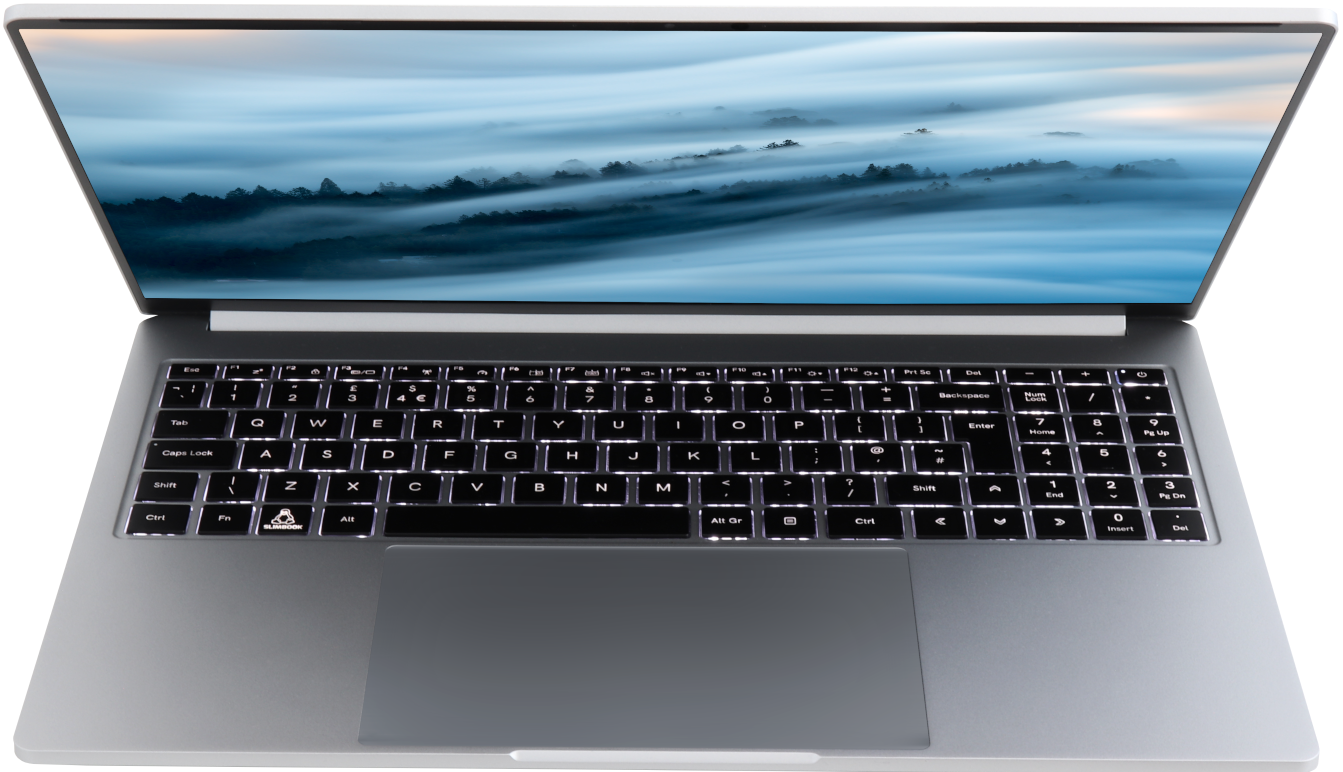
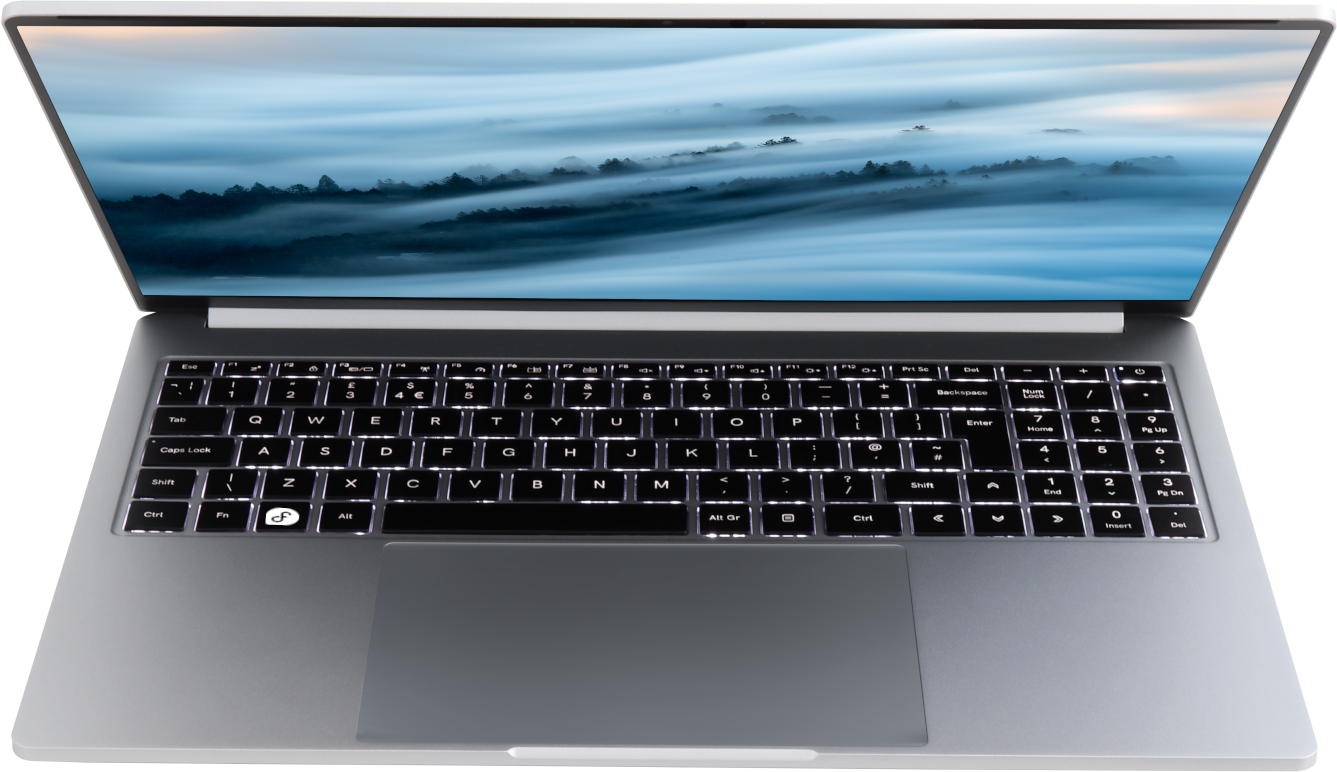
Update

diff --git a/themes/fedora-slimbook/layouts/index.html b/themes/fedora-slimbook/layouts/index.html
@@ -261,7 +261,44 @@
             </div>
         </div>
     </section>
+    <section class="p-0"
+        style="background: linear-gradient(194deg, rgba(80,158,214,0) 46%, rgba(80,158,214,1) 46%, rgba(91,47,164,0.9177871832326681) 100%, rgba(106,79,186,0.9570028695071778) 100%);">
+        <section class="mx-auto ">
+            <div class="row p-4 align-items-center">
+                <div class="col-xl-4 p-5 offset-xl-1  align-items-center text-center">
+                    <img src="/img/Fedora-EX16-banner6.png" alt="fff">
+                </div>
+                <ul class="col-xl-3 col-12 align-items-center">
+                    <img src="/img/gallery/Fedora-EX16-banner6-IMG1.png" alt="">
+                    <img src="/img/gallery/Fedora-EX16-banner6-IMG2.png" alt="">
+                </ul>
+                <ul class="col-xl-3 col-12 align-items-center">
+                    <img src="/img/gallery/Fedora-EX16-banner6-IMG3.png" alt="">
+                    <img src="/img/gallery/Fedora-EX16-banner6-IMG4.png" alt="">
+                </ul>
 
+            </div>
+        </section>
+        <section class="mx-auto p-0">
+            <div class="row p-4 w-50 mx-auto align-items-center">
+                <div class="col-xl-4 offset-xl-1 p-5 align-items-center text-center">
+                    <img src="/img/Logo_X.png" alt="fff">
+                </div>
+                <ul class="col-xl-2 col-12 align-items-center">
+                    <img src="/img/heart.PNG" alt="">
+                </ul>
+                <ul class="col-xl-4 col-12 align-items-center">
+                    <img src="/img/Fedora-logoFedora-banner1.png" alt="">
+                </ul>
+                <div class="text-center pb-5" style="color:white">
+                    <p>
+                        With every purchase of this laptop model, Slimbook collaborates with the GNOME foundation.
+                    </p>
+                </div>
+            </div>
+
+        </section>
+    </section>
 </main>
 
 {{ end }}

diff --git a/public/index.html b/public/index.html
@@ -298,7 +298,44 @@
             </div>
         </div>
     </section>
+    <section class="p-0"
+        style="background: linear-gradient(194deg, rgba(80,158,214,0) 46%, rgba(80,158,214,1) 46%, rgba(91,47,164,0.9177871832326681) 100%, rgba(106,79,186,0.9570028695071778) 100%);">
+        <section class="mx-auto ">
+            <div class="row p-4 align-items-center">
+                <div class="col-xl-4 p-5 offset-xl-1  align-items-center text-center">
+                    <img src="./img/Fedora-EX16-banner6.png" alt="fff">
+                </div>
+                <ul class="col-xl-3 col-12 align-items-center">
+                    <img src="./img/gallery/Fedora-EX16-banner6-IMG1.png" alt="">
+                    <img src="./img/gallery/Fedora-EX16-banner6-IMG2.png" alt="">
+                </ul>
+                <ul class="col-xl-3 col-12 align-items-center">
+                    <img src="./img/gallery/Fedora-EX16-banner6-IMG3.png" alt="">
+                    <img src="./img/gallery/Fedora-EX16-banner6-IMG4.png" alt="">
+                </ul>
 
+            </div>
+        </section>
+        <section class="mx-auto p-0">
+            <div class="row p-4 w-50 mx-auto align-items-center">
+                <div class="col-xl-4 offset-xl-1 p-5 align-items-center text-center">
+                    <img src="./img/Logo_X.png" alt="fff">
+                </div>
+                <ul class="col-xl-2 col-12 align-items-center">
+                    <img src="./img/heart.PNG" alt="">
+                </ul>
+                <ul class="col-xl-4 col-12 align-items-center">
+                    <img src="./img/Fedora-logoFedora-banner1.png" alt="">
+                </ul>
+                <div class="text-center pb-5" style="color:white">
+                    <p>
+                        With every purchase of this laptop model, Slimbook collaborates with the GNOME foundation.
+                    </p>
+                </div>
+            </div>
+
+        </section>
+    </section>
 </main>
 
 
